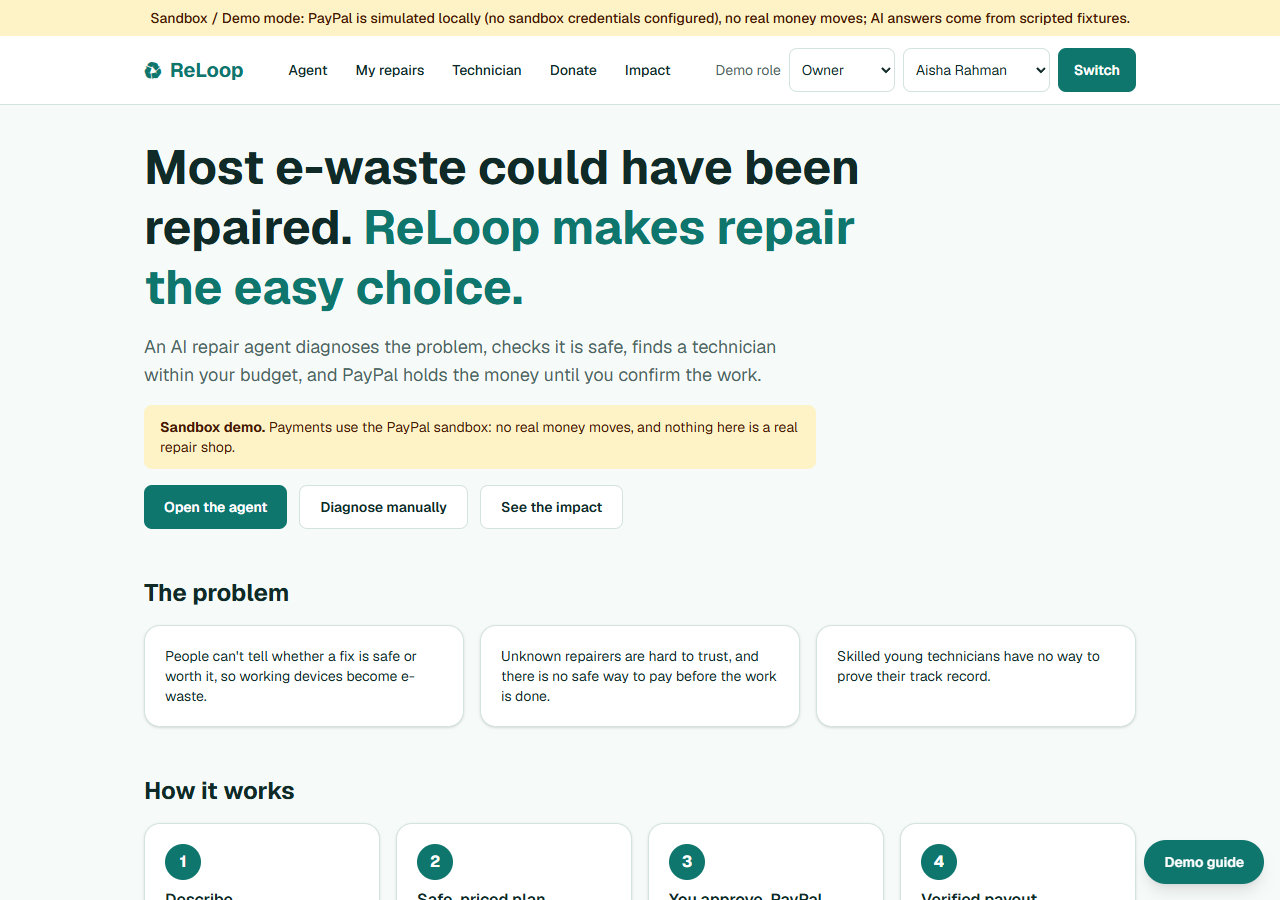
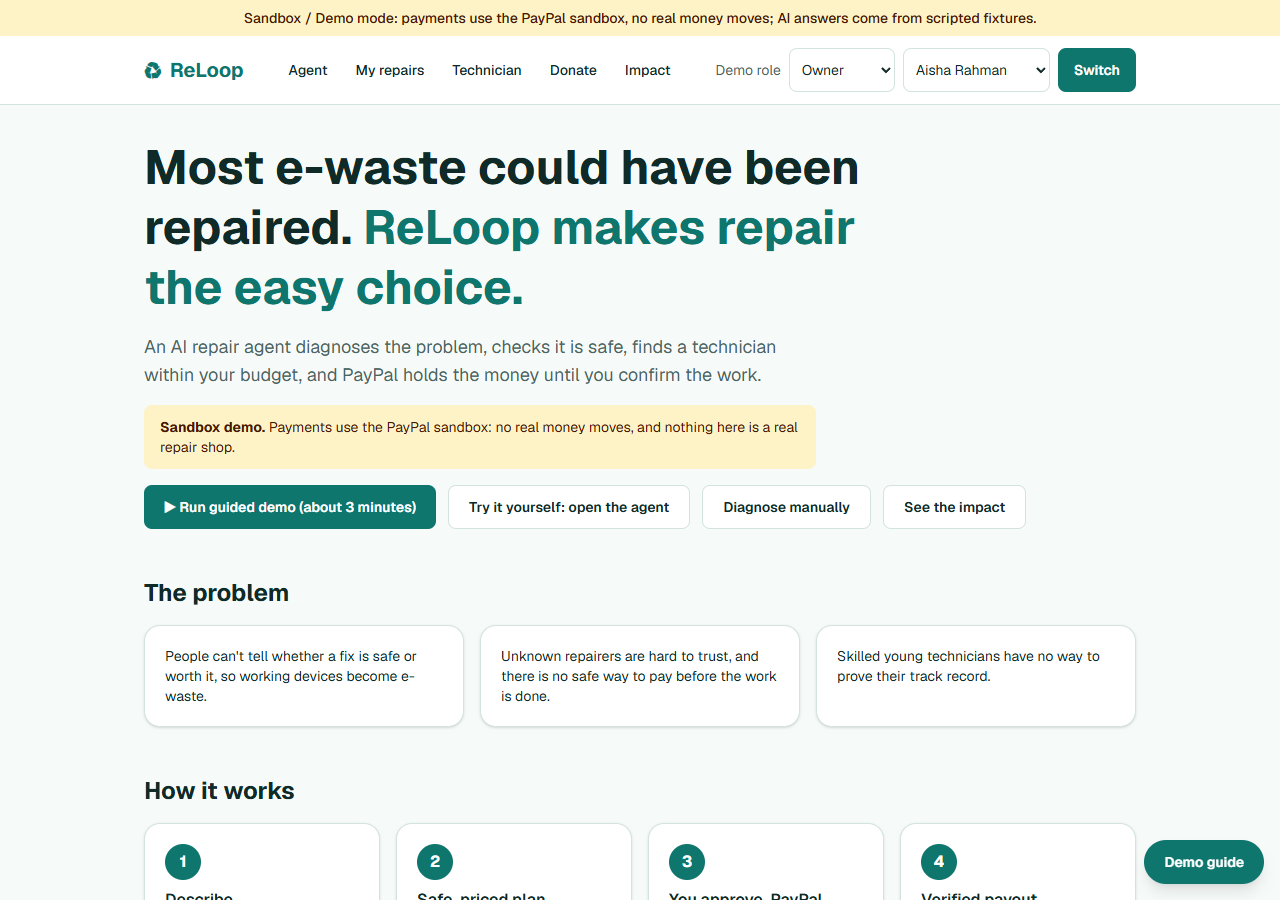
Docs: guided demo notes, README section, Devpost text, DECISIONS 64-67

Changed region(s): [[0.125, 0.0, 0.875, 0.0311], [0.125, 0.5289, 0.5312, 0.5911], [0.5625, 0.56, 0.7812, 0.5911]]

diff --git a/docs/DEMO_TOUR_NOTES.md b/docs/DEMO_TOUR_NOTES.md
@@ -1,0 +1,60 @@
+# Guided demo ("Run guided demo") notes
+
+A narrated tour that drives the **real app**: it types into the real forms, clicks the real buttons and switches the real role switcher, while a caption bar explains each step. Because it operates the product instead of playing a video, the captions cannot drift out of sync with it. It takes about 3 to 3.5 minutes at 1x speed (measured: 3:16).
+
+> The reference files from the CampusSync tour (`docs/reference/*`) were not in this repo when it was built, so the design was done from the written brief. Nothing was ported.
+
+## What it never does
+
+- It **never calls PayPal**: no order, authorize, capture, payout or webhook. Three independent layers enforce it:
+  1. the browser guard (`lib/tour/paypal-client-guard.ts`) refuses any fetch/XHR to a PayPal host or `/api/paypal/*` and removes PayPal script tags while a tour runs;
+  2. the server guard (`lib/tour/paypal-guard.ts`) returns 403 from `/api/paypal/orders`, `/api/paypal/orders/*/authorize`, `/api/donations` and its capture route for a tour session or a tour job;
+  3. tour jobs use `TOUR-SIMULATED` ids (`SIM-TOUR-...`); capture and payout for them are computed locally in `lib/jobs/lifecycle.ts`, and webhooks ignore tour records.
+- It never calls Claude, even with an API key: tour runs force the scripted path (`tourRunId` makes `runAgent` and `diagnose` scripted).
+- It does not change money, safety or approval rules. The agent still cannot pay, the Approve click still mints the approval token, and `PAYPAL_SIMULATE_APPROVAL` is still ignored in production.
+
+## How it works
+
+| Piece | File |
+|---|---|
+| Steps and chapters as data | `lib/tour/script.ts` |
+| Wording (edit this) | `docs/tour-captions.json` |
+| Timing: one `wait(ms)`, speed multiplier, pause/skip/abort checks every 50 ms | `lib/tour/runner.ts` |
+| Browser engine: finds `data-tour` targets, types, clicks, uploads, highlights, resumes, cleans up | `lib/tour/controller.ts` |
+| Caption bar, controls, landing button | `components/tour/tour-host.tsx` |
+| Session, cleanup, exclusions helpers | `lib/tour/server.ts` |
+| Routes | `app/api/tour/start`, `/pay`, `/cleanup` |
+| Sample proof photo (made for this project, no third-party content) | `public/tour/sample-proof.png` |
+
+Targets are found **only** by `data-tour="..."` attributes (no position-based selectors). `name@job` narrows to the element inside the tour job's own card or form, because the seeded technician board has other jobs.
+
+### Chapters (about 3 minutes at 1x)
+
+1. The problem (landing page) 2. The agent (goal, budget, trace, rejected over-budget quote, quote) 3. You stay in control (Approve, PayPal button is **not** loaded, tour-only TOUR-SIMULATED hold, job page) 4. Technician side (role switcher, accept, start, proof photo, complete) 5. Confirm and pay out (owner, confirm, TOUR-SIMULATED payout, timeline) 6. Safety first (swollen battery, red stop, "DIY is not offered") 7. Proof, giving and impact (seeded technician profile, CV button not clicked, donate page with PayPal not loaded, impact) 8. Your turn (**Try the real sandbox checkout** opens the Demo guide, or **Finish**).
+
+Chapter 3 differs slightly from the brief: for agent-built jobs the PayPal button lives on the agent page (after Approve), not on the job page, so that is where it is highlighted before the tour moves to the job page.
+
+### Controls
+
+Pause/Resume, Skip chapter, Speed 1x/1.5x/2x, Stop (Esc). A real click or key press on the page pauses the tour ("Paused because you used the page"); the tour's own clicks are synthetic (`isTrusted` false) and never pause it. The app's handlers must keep ignoring `isTrusted` for the tour to work (comment in `lib/tour/controller.ts`).
+
+If a target is missing the step is skipped with a console warning and the chapter is abandoned; chapters that depend on it (`needs`) are skipped; after two failures the tour ends with a visible "Tour ended early" message. It never leaves a half-driven page without a message.
+
+## Data safety
+
+- Every record a tour creates carries `isTour = true` and `tourRunId` (devices, jobs, agent runs). A `TourRun` row plus an httpOnly cookie (`reloop_tour`) is the session; a readable flag cookie (`reloop_tour_on`, no id) tells the next page load that a session may exist.
+- Tour jobs can only be moved by the session that owns them: `lib/jobs/lifecycle.ts` calls `assertTourJobAccess` for every action (valid cookie bound to the job's `tourRunId`, `DEMO_ACTIONS=true`). `/api/tour/pay` additionally requires the user's real Approve click and a non-expired approval.
+- Excluded everywhere: impact totals and earnings, technician earnings, public technician profiles and CV exports, the donation fund total, webhook handling. Tour repairs never create a `VerifiedRepair` or `ImpactEvent`. Other visitors do not see them in My repairs or the technician board.
+- Cleanup runs on **Finish**, on **Stop**, on the **next page load** after an interrupted run (state stale for more than 20 s, or session lost), and as a **server purge** of runs older than 2 hours (and orphaned tour records) whenever a new tour starts. A reload mid-chapter within 20 s resumes the same run at the start of that chapter.
+- `sessionStorage` holds `{runId, chapter, startedAt, speed, job, heartbeat}`. State from a different or expired run is discarded and cleaned.
+
+## Editing
+
+- Wording: edit `docs/tour-captions.json`. A caption must describe only what is on screen when it appears; `tests/tour-script.test.ts` fails if a caption has no target or the target does not exist in the markup.
+- Timing: the `ms` of each step in `lib/tour/script.ts` (scaled by the speed setting).
+- New step: add the `data-tour` attribute to the element, then a step in `script.ts`.
+
+## Verifying
+
+- Unit tests: `npm test` (runner, guards, authorization, cleanup, exclusions, script checks).
+- Browser: `npm run build` then `npm run verify:tour` (own production server, throwaway database, dummy PayPal credentials so any PayPal call would be visible). Runs the whole tour at 1280 px (1x) and 412 px (2x), checks zero PayPal requests, no console errors, an axe check of the caption bar, no leftovers, a reload-resume, an abandoned tab and stale state. `npm run verify:ui` runs it too (`SKIP_TOUR=1` to skip).

diff --git a/DECISIONS.md b/DECISIONS.md
@@ -65,3 +65,7 @@
 | 62 | `--muted` darkened to `#4a6562` and a test enforces WCAG AA contrast for the theme pairs. Server-action results (`?ok=`/`?error=`) are shown as toasts on job, technician, donate and diagnosis pages; form pages keep inline errors. | Accessibility and clearer feedback. |
 | 63 | Browser checks use `playwright-core` with the system Edge/Chrome plus `axe-core`, not a downloaded browser (`npm run verify:ui`). Lighthouse was attempted and produced no result, so no Lighthouse scores are claimed. | Works on Windows without a large download. |
 | 25 | Platform fee is deducted from the technician's share, shown on the quote. The customer pays exactly the quoted total. | Transparent for both sides. |
+| 64 | **Guided demo tour** drives the real UI (data-tour targets, synthetic clicks) and never calls PayPal. Tour records carry `isTour`/`tourRunId`; a `TourRun` row + httpOnly cookie is the session; money on tour jobs is `SIM-TOUR-*` / `TOUR-SIMULATED` computed locally. | Judges see the full flow in about 3 minutes without PayPal sandbox friction, and captions cannot drift from the product. |
+| 65 | **Why this does not weaken the production rule on simulated approvals:** `PAYPAL_SIMULATE_APPROVAL` is untouched and still forced off in production. The tour never sets `authSimulated` through that path: `/api/tour/pay` only accepts a job tagged `isTour` that belongs to the caller's own tour session, only when `DEMO_ACTIONS=true`, only after the user's real Approve click, and the lifecycle refuses every other action on a tour job without that session. A non-tour job can never become TOUR-SIMULATED, and a tour job can never reach PayPal (three guard layers) or any public total (excluded in every query and never given a VerifiedRepair/ImpactEvent). | The tour is a labelled, isolated, self-deleting demo, not a bypass of payment rules. |
+| 66 | Tour cleanup: Finish, Stop, next page load after an interrupted run (stale heartbeat or lost state + flag cookie), and a server purge of runs older than 2 hours and orphaned tour records when a new tour starts. A reload within 20 s resumes the run at the start of its chapter. | CampusSync left leftovers after a mid-tour reload; every exit path here removes the data. |
+| 67 | Tour agent runs use their own rate-limit bucket (`tourAgent`, 8 per 10 minutes) so repeated tours do not exhaust the public agent limit, and are bounded by the `tour` limiter on start/pay/cleanup. | Judges may run the tour several times. |

diff --git a/README.md b/README.md
@@ -67,6 +67,12 @@ More detail: [docs/architecture.md](docs/architecture.md).
 - **Repair agent**: Claude tool-use loop (max 10 tool calls, 90 s timeout) over deterministic tools; goal text, photos and tool results are treated as untrusted data; budget and approval are enforced server-side.
 - **Scripted fallback**: with `DEMO_MODE=true` or no API key, diagnosis uses fixtures and the agent plays a clearly labelled *scripted demo run* of three scenarios **through the same real tools and checks**. A daily cap on live calls (`AI_DAILY_CALL_CAP`) falls back to this with a notice.
 
+## Guided demo
+
+On the hosted demo (or any run with `DEMO_ACTIONS=true`) the landing page has **"Run guided demo (about 3 minutes)"**. It operates the real app, with a caption bar explaining each step: the agent run and budget block, the approval gate, a technician accepting and completing a job with a proof photo, the owner confirming, the payout, the safety stop, and the verified profile, donation and impact pages. Controls: pause, skip chapter, speed 1x/1.5x/2x, stop (Esc).
+
+What it simulates: money. The tour **never calls PayPal** (no order, authorize, capture, payout or webhook; blocked in the browser and on the server). Its payment, capture and payout are recorded as `TOUR-SIMULATED` and tagged "Tour simulation" in the UI, the AI is always the scripted run, and everything it creates is excluded from impact totals, earnings, public profiles, CVs and the donation fund and is deleted when the tour ends (or on the next page load if it was interrupted). The real sandbox checkout is untouched: try it yourself with the test buyer in the Demo guide. Details: [docs/DEMO_TOUR_NOTES.md](docs/DEMO_TOUR_NOTES.md).
+
 ## What is simulated in demo mode
 
 | Part | Demo mode (no keys) | With keys |
@@ -77,6 +83,7 @@ More detail: [docs/architecture.md](docs/architecture.md).
 | Donations | Local simulation (off in production without PayPal) | Real PayPal sandbox |
 | Recycler | Always a demo partner; "Demo control" buttons (`DEMO_ACTIONS=true`) stand in for it | same |
 | Dev "Simulate buyer approval" | Local dev only; never in production | same |
+| Guided demo money | `TOUR-SIMULATED` payment, capture and payout; PayPal never called | same (still never called) |
 
 Anything simulated is tagged **SIMULATED** in the UI and database.
 

diff --git a/docs/devpost-description.md b/docs/devpost-description.md
@@ -15,6 +15,8 @@ You tell the ReLoop agent what's wrong and your budget ("My Galaxy A52 screen is
 
 Next.js 16, Prisma on SQLite, Claude via tool use, and the PayPal sandbox: Orders v2 (authorize and capture), the Payments API (capture, re-authorize, void), Payouts, and webhooks. The key design choice is that safety and money rules live in code, not prompts: a hard safety gate decides whether DIY is allowed; a transition table with per-action role checks governs the job lifecycle; capture and payout are idempotent; and the agent has no tool that can create an order. Order creation for agent-built jobs needs a single-use token minted only by the user's Approve click, bound to the exact job, total and line items and valid for 15 minutes. Without API keys the app runs a scripted demo through the same real tools, clearly labelled. About 160 automated tests cover the rules, and a real-browser script checks responsiveness, accessibility and the keyboard flow.
 
+**Guided demo.** A "Run guided demo" button drives the real app for about three minutes with a caption bar, so judges see the whole flow without clicking. It never calls PayPal: its payment, capture and payout are labelled TOUR-SIMULATED, it always uses the scripted AI, and everything it creates is excluded from impact, earnings, profiles and the donation fund and deleted afterwards. The real sandbox checkout is still one click away in the Demo guide.
+
 ## Challenges we ran into
 
 Making a genuinely human-in-the-loop agent: the model must be useful but unable to spend money, even if the goal text or a photo tells it to ignore the rules. We solved it structurally (no payment tool, server-side token verification) and tested a prompt-injection case. PayPal sandbox quirks (stale orders being reused on retry, popup and tracking-prevention failures) led to a fresh request id per order and a full-page redirect fallback. Keeping sandbox, simulated and real paths honest meant tagging everything simulated and making it unreachable in production.
